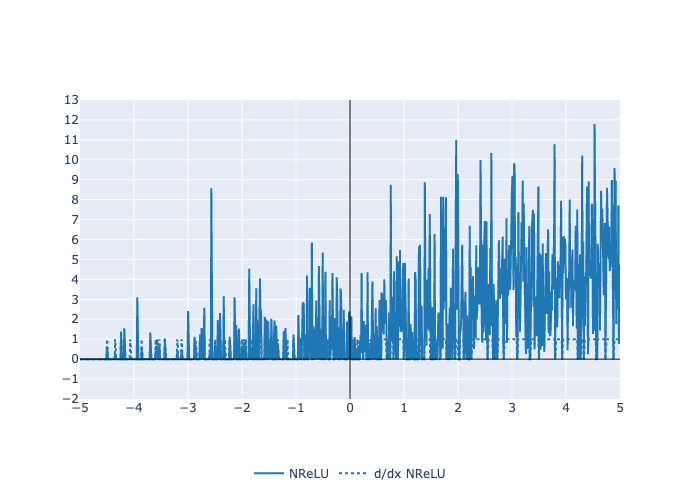
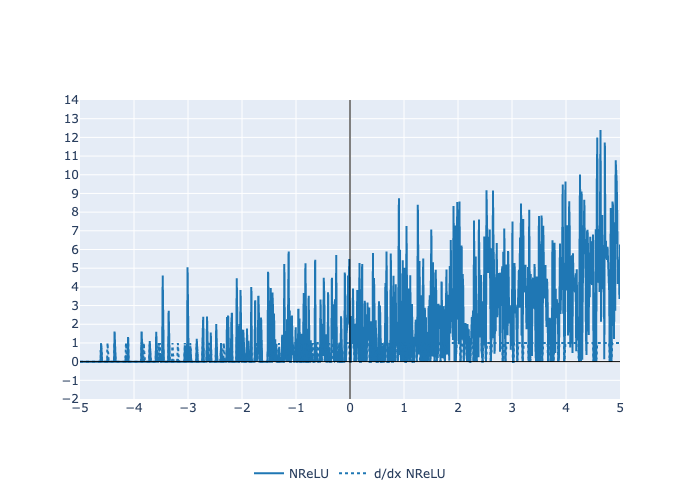
feat(ReLU): Add image for SignReLU
- Add seed to not save random-based ReLU variant to create new copy each time

Changed region(s): [[0.09, 0.24, 0.9, 0.78], [0.09, 0.18, 0.12, 0.66]]

diff --git a/torch_activation/classical/relu.py b/torch_activation/classical/relu.py
@@ -2058,6 +2058,11 @@ class SignReLU(BaseActivation):
 if __name__ == "__main__":
     from torch_activation.utils import plot_activation
 
+    seed = 42
+    torch.manual_seed(seed)
+    torch.cuda.manual_seed(seed)
+    torch.cuda.manual_seed_all(seed)
+
     activation_params = {
         "ReLU": {},
         "SReLU": {},
@@ -2095,6 +2100,7 @@ if __name__ == "__main__":
         "LSPTLU": {"a": [0.5, 1, 2]},
         "SoftModulusT": {},
         "SoftModulusQ": {},
+        "SignReLU": {"a": [0.5, 1, 2]},
         # "SCAA": {}  # NOTE: SCAA is not one-to-one.
     }
 
